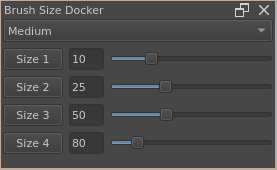
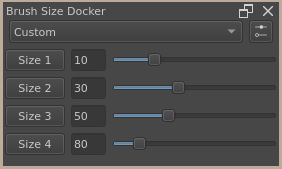
readme update

diff --git a/README.md b/README.md
@@ -4,6 +4,10 @@
   <img src="/readme-assets/docker.png" />
 </p>
 
+<p align="center">
+  <img src="/readme-assets/settings.png" />
+</p>
+
 ## Overview
 
 The Brush Size Docker plugin allows you to quickly and easily adjust the size of your brush in Krita using predefined size presets or by manually setting the size.
@@ -14,9 +18,18 @@ The Brush Size Docker plugin allows you to quickly and easily adjust the size of
 - **Current Brush preset**: It will use the current brush size to generte Size 1 (1/5), Size 2 (1/2) and Size 4 (5/3).
 - **Manual Size Input**: Input box to type the exact size.
 - **Size Slider**: Slider to adjust the preset.
+- **User Defined Mode**: Allows the user to define sizes and ranges in the dialog at the top-right of the docker.
 
 
 ## Installation
+
+### Method 1 (easiest)
+
+Open Krita go to `Tools > Scripts > Import Python Plugin From Web` and paste the following URL.
+
+https://github.com/josepablo-espinoza/krita-brush-size-docker/releases/latest/download/Krita-Brush-Size-Docker.zip
+
+### Method 2
 
 1. **Download latest release zip**:
 
@@ -37,9 +50,4 @@ Once the Brush Size Docker is enabled, it will appear as a new docker in Krita.
 
 ## Desired Enhancements
 
-- Allow users to save their shortcuts as presets.
-
-
-## Known Issues
-
-- Currently, there's no available method to store user generated presets.
+In its current version, all initial user cases have been covered. Leave an issue requesting a feature you think is missing and will improve the user experience.
